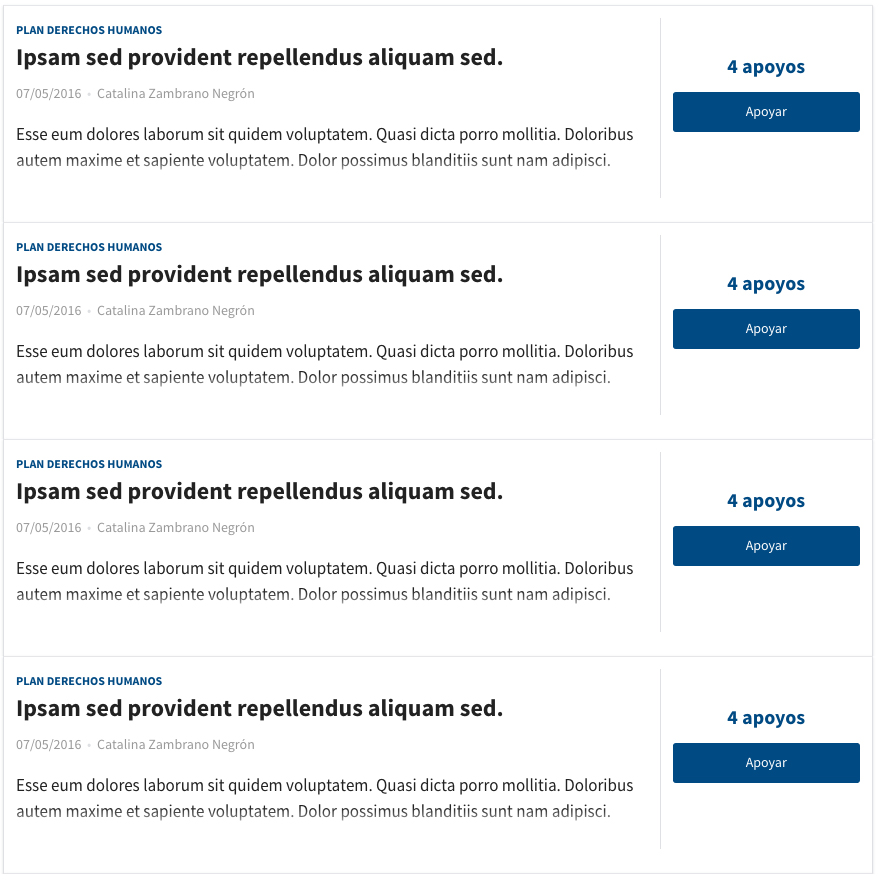
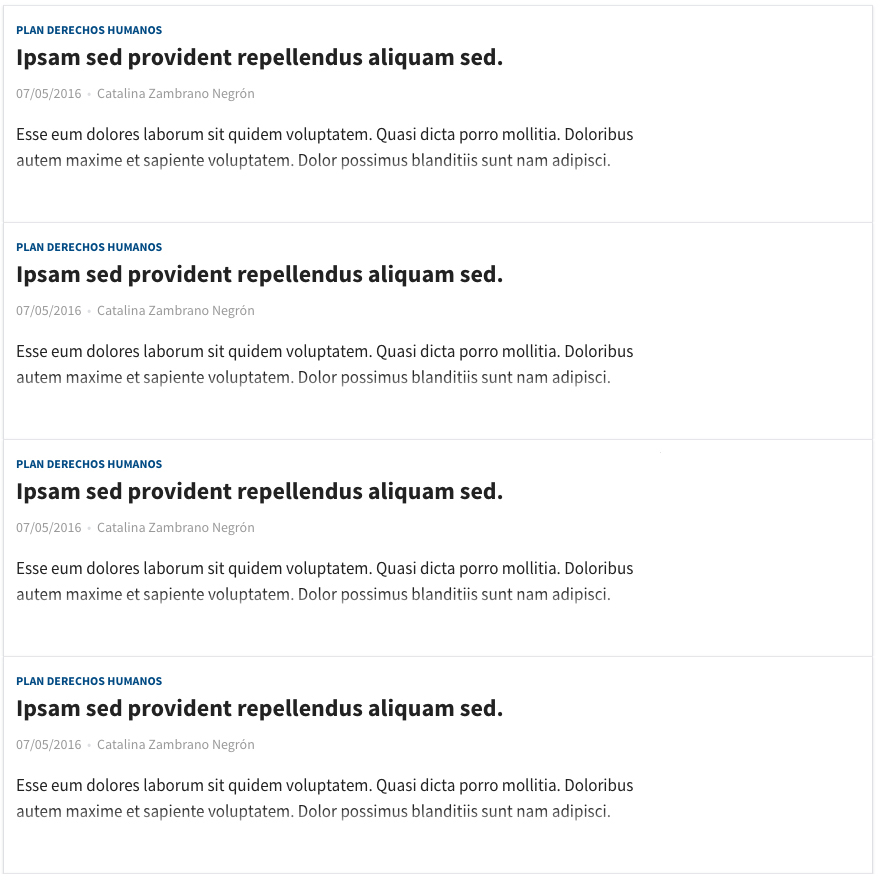
Removes unnecessary button

diff --git a/app/assets/stylesheets/custom.scss b/app/assets/stylesheets/custom.scss
@@ -1364,18 +1364,9 @@ table.age-groups {
     min-height: $line-height*4;
     vertical-align: top;
 
-    &.active {
+    &:hover {
       background: $highlight;
       position: relative;
-
-      &:hover {
-        background: #fcf1e7;
-
-        &:before {
-          color: $delete;
-          content: "\76";
-        }
-      }
 
       &:before {
         color: $brand;
@@ -1390,10 +1381,6 @@ table.age-groups {
     a {
       color: $text;
       text-decoration: none;
-    }
-
-    &:hover {
-      background: #e0e0e0;
     }
   }
 }
